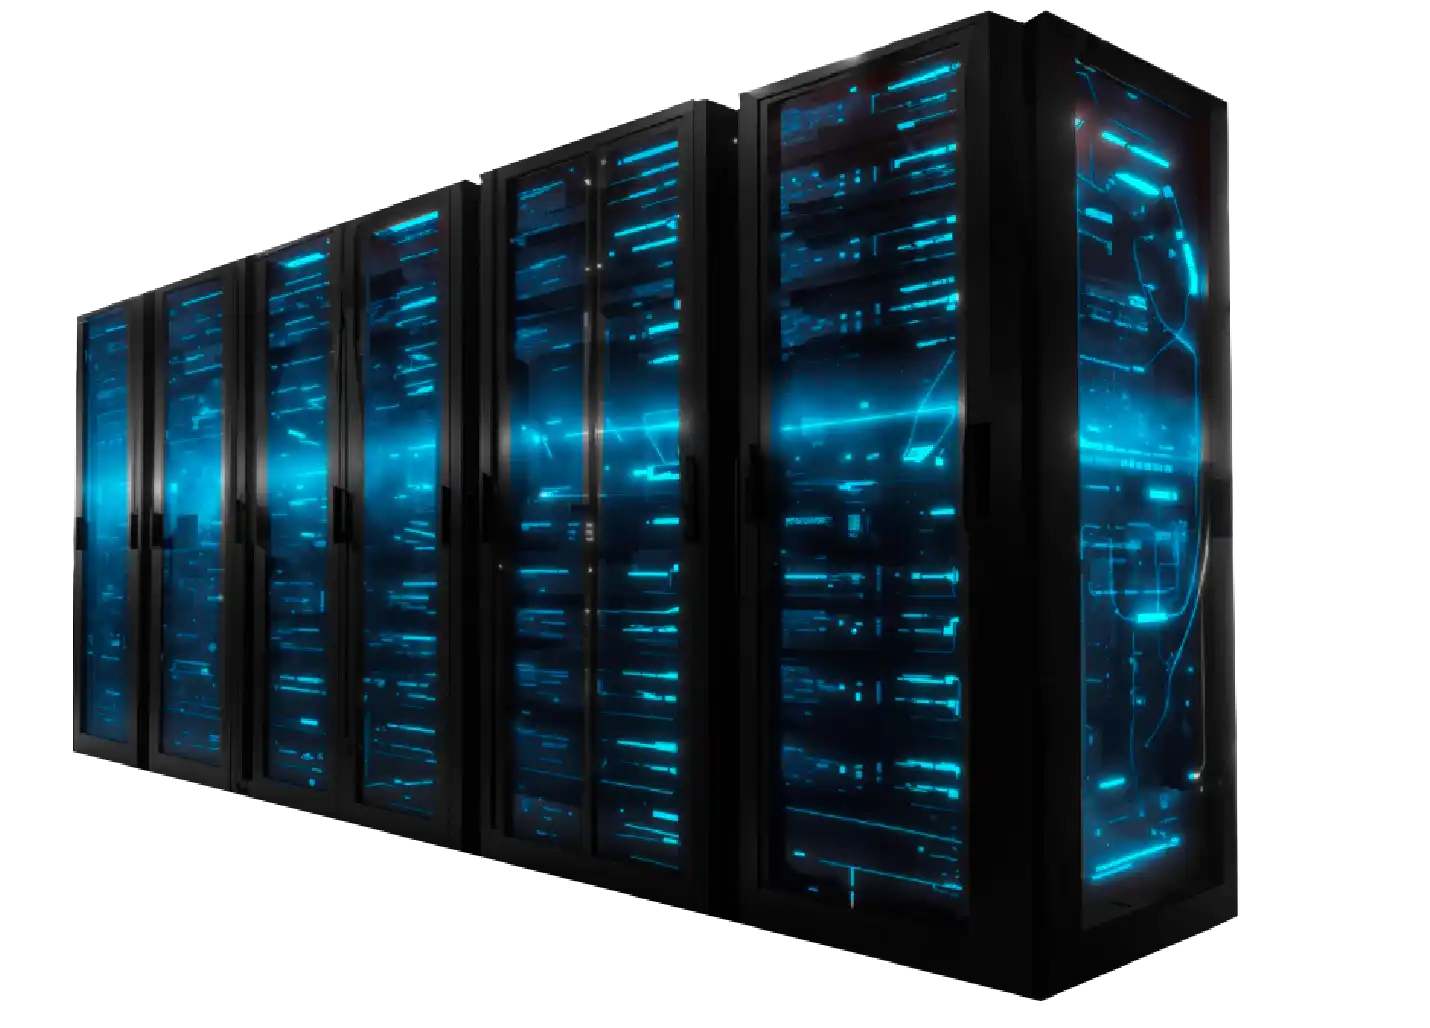
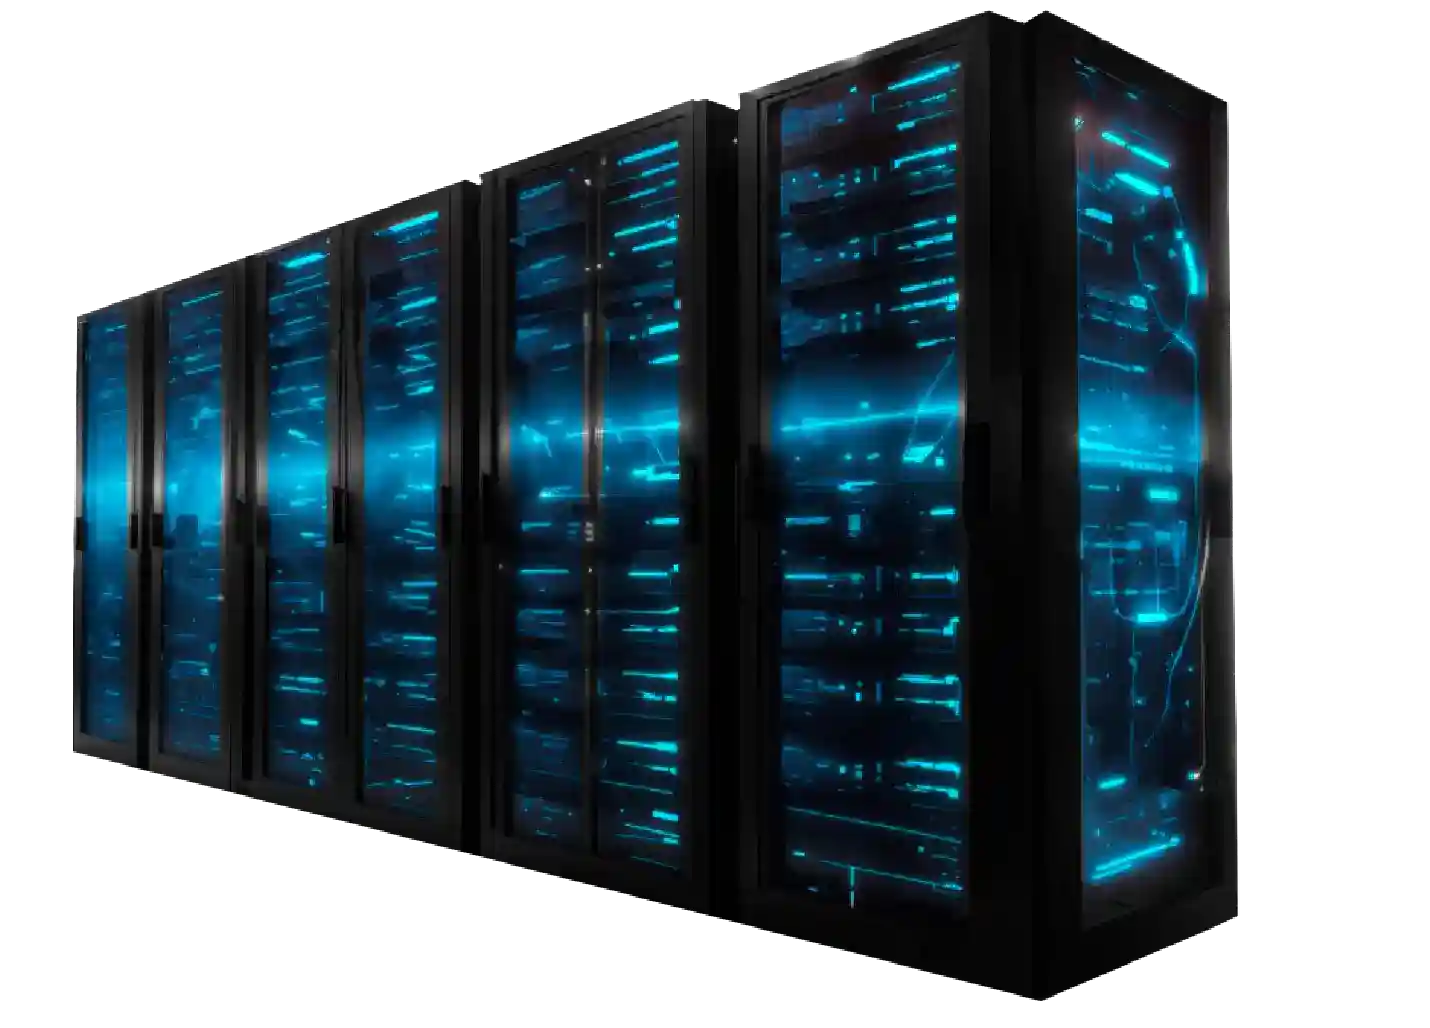
se comienzan a realizar los apartados de normativa y proteccion infantil

Changed region(s): [[0.6462, 0.7471, 0.6769, 0.7782], [0.4308, 0.2179, 0.4615, 0.249], [0.2769, 0.2802, 0.3077, 0.3113]]

diff --git a/src/components/normativa/Normativa.css b/src/components/normativa/Normativa.css
@@ -1,0 +1,84 @@
+.normativa{
+    background:#000;
+    color:#fff;
+    padding:90px 8%;
+    font-family:"Montserrat",sans-serif;
+}
+
+.normativa-header{
+    max-width:850px;
+    margin:auto;
+    text-align:center;
+    margin-bottom:70px;
+}
+
+.badge{
+    display:inline-block;
+    padding:8px 18px;
+    border-radius:50px;
+    background:#0f5c74;
+    color:#fff;
+    font-size:13px;
+    font-weight:700;
+    letter-spacing:1px;
+    margin-bottom:18px;
+}
+
+.normativa-header h1{
+    font-size:46px;
+    font-weight:800;
+    margin-bottom:20px;
+}
+
+.normativa-header p{
+    color:#c9d0dc;
+    line-height:1.8;
+    font-size:18px;
+}
+
+.normativa-card{
+    max-width:1200px;
+    margin:auto;
+    background:#08131d;
+    border:1px solid rgba(255,255,255,.08);
+    border-radius:18px;
+    padding:45px;
+}
+
+.normativa-card h2{
+    text-align:center;
+    margin-bottom:35px;
+    font-size:28px;
+}
+
+.regulaciones-grid{
+    display:grid;
+    grid-template-columns:repeat(auto-fit,minmax(280px,1fr));
+    gap:20px;
+}
+
+.regulacion-item{
+    display:flex;
+    align-items:center;
+    gap:14px;
+    padding:18px;
+    background:#111b26;
+    border-radius:12px;
+    transition:.25s;
+}
+
+.regulacion-item:hover{
+    transform:translateY(-4px);
+    background:#0f5c74;
+}
+
+.regulacion-item span{
+    color:#00d4ff;
+    font-size:20px;
+}
+
+.regulacion-item p{
+    margin:0;
+    font-size:16px;
+    color:#fff;
+}

diff --git a/src/components/normativa/Normativa.jsx b/src/components/normativa/Normativa.jsx
@@ -1,0 +1,54 @@
+import "./Normativa.css";
+
+const regulaciones = [
+    "Ley 679 de 2001",
+    "Acuerdo 011 de 2006",
+    "Ley 1480 de 2011",
+    "Regimen de proteccion de usuarios Resolucion 5111 de 2017",
+    "Decreto 90 del 18 de Enero de 2018",
+    "Resolucion CRC 5299 de 2018",
+    "Resolucion CRC 5300 de 2018",
+    "Resolución CRC 5321 de 2018",
+    "Resolución CRC 6242 de 2021",
+    "Resolución CRC 5337 de 2018",
+    "Resolución CRC 5344 de 2018",
+    "Resolución CRC 6333 de 2021",
+    "Resolución CRC 5397 de 2018",
+    "Resolución CRC 5322 de 2018",
+    "Resolución CRC 5930 de 2020",
+    "Resolución CRC 19012 de 2020",
+    "Art.6 Ley 1266 del año 2008",
+    "Art.16 Ley 1266 del año 2008",
+];
+
+export default function Normativa() {
+    return (
+        <section className="normativa">
+            <div className="normativa-header">
+                <span className="badge">NORMATIVA</span>
+
+                <h1>Regulación del Sector TIC</h1>
+
+                <p>
+                    Consulta las principales leyes, decretos y resoluciones que regulan
+                    la prestación de servicios de telecomunicaciones en Colombia.
+                </p>
+            </div>
+
+            <div className="normativa-card">
+                <h2>Marco Normativo</h2>
+
+                <div className="regulaciones-grid">
+                    {regulaciones.map((item, index) => (
+                        <div key={index} className="regulacion-item">
+                            <span>✔</span>
+                            <p>{item}</p>
+                        </div>
+                    ))}
+                </div>
+            </div>
+        </section>
+
+
+    );
+}

diff --git a/src/App.js b/src/App.js
@@ -36,6 +36,14 @@ const Software = lazy(() => import("./pages/software"));
 const Trabaja = lazy(() => import("./pages/trabaja"));
 const Contacto = lazy(() => import("./pages/contacto"));
 
+const ProteccionInfantil = lazy(() =>
+  import("./pages/proteccioninfantil")
+);
+
+const Normativa = lazy(() =>
+  import("./pages/Normativa")
+);
+
 const DesarrolloMobile = lazy(() =>
   import("./pages/desarrollomobile")
 );
@@ -151,6 +159,16 @@ function AppRoutes() {
           path="/pqr"
           element={<PQRPage />}
         />
+
+         <Route
+          path="/proteccioninfantil"
+          element={<ProteccionInfantil />}
+        />
+
+        <Route
+          path="/normativa"
+          element={<Normativa />} />
+        
 
         {/* fallback */}
 

diff --git a/src/pages/proteccioninfantil.jsx b/src/pages/proteccioninfantil.jsx
@@ -1,0 +1,18 @@
+import Serviciodesarrollo from "../components/serviciosdesarrollo/serviciodesarrollo";
+import HeroSoftware from "../components/herosofware/herosoftware";
+import ContactForm from "../components/contactForm/ContactForm";
+
+const SoftwarePage = () => {
+  return (
+    <>
+      <HeroSoftware />
+      <Serviciodesarrollo />
+  
+
+      <ContactForm />
+
+    </>
+  );
+};
+
+export default SoftwarePage;  

diff --git a/src/components/footer/Footer.css b/src/components/footer/Footer.css
@@ -2,7 +2,7 @@
   background: #05080f;
   color: #cfd3dc;
   position: relative;
-  padding: 80px 60px 50px;
+  padding: 90px 90px 90px;
   font-family: "Montserrat", sans-serif;
 }
 
@@ -11,7 +11,7 @@
   position: absolute;
   top: 0;
   left: 0;
-  width: 100%;
+  width: 150%;
   height: 1px;
   background: linear-gradient(
     to right,
@@ -27,16 +27,16 @@
   margin: 0 auto;
 
   display: grid;
-  grid-template-columns: 1.2fr 1fr 1fr 1fr;
-  gap: 60px;
+  grid-template-columns: 320px repeat(4, 1fr);
+  align-items: start;
+  gap: 50px;
 }
-
 /* columnas */
 .footer-col h4 {
   color: #ffffff;
   font-size: 14px;
   letter-spacing: 1px;
-  margin-bottom: 18px;
+  margin-bottom: 19px;
   text-transform: uppercase;
 }
 
@@ -77,8 +77,7 @@
 @media (max-width: 600px) {
 
   .footer {
-    padding: 60px 24px 40px;
-  }
+  padding: 90px 40px;  }
 
   .footer-container {
     grid-template-columns: 1fr;

diff --git a/src/components/footer/footer.jsx b/src/components/footer/footer.jsx
@@ -60,6 +60,21 @@ export default function Footer() {
 
                     </ul>
                 </div>
+
+                {/* informacion legal */}
+
+                <div className="footer-col">
+                    <h4>INFORMACIÓN LEGAL</h4>
+
+
+                    <ul>
+                        <li><Link to="/proteccioninfantil">Protección Infantil</Link></li>
+                        <li><Link to="/normativa">Protección al usuario y Normativa</Link></li>
+
+                    </ul>
+
+                </div>
+
             </div>
         </footer>
     );

diff --git a/src/pages/Normativa.jsx b/src/pages/Normativa.jsx
@@ -1,0 +1,15 @@
+
+
+import NormativaContent from "../components/normativa/Normativa";
+
+const Normativa  = () => {
+  return (
+    <>
+
+      <NormativaContent />
+
+    </>
+  );
+};
+
+export default Normativa; 